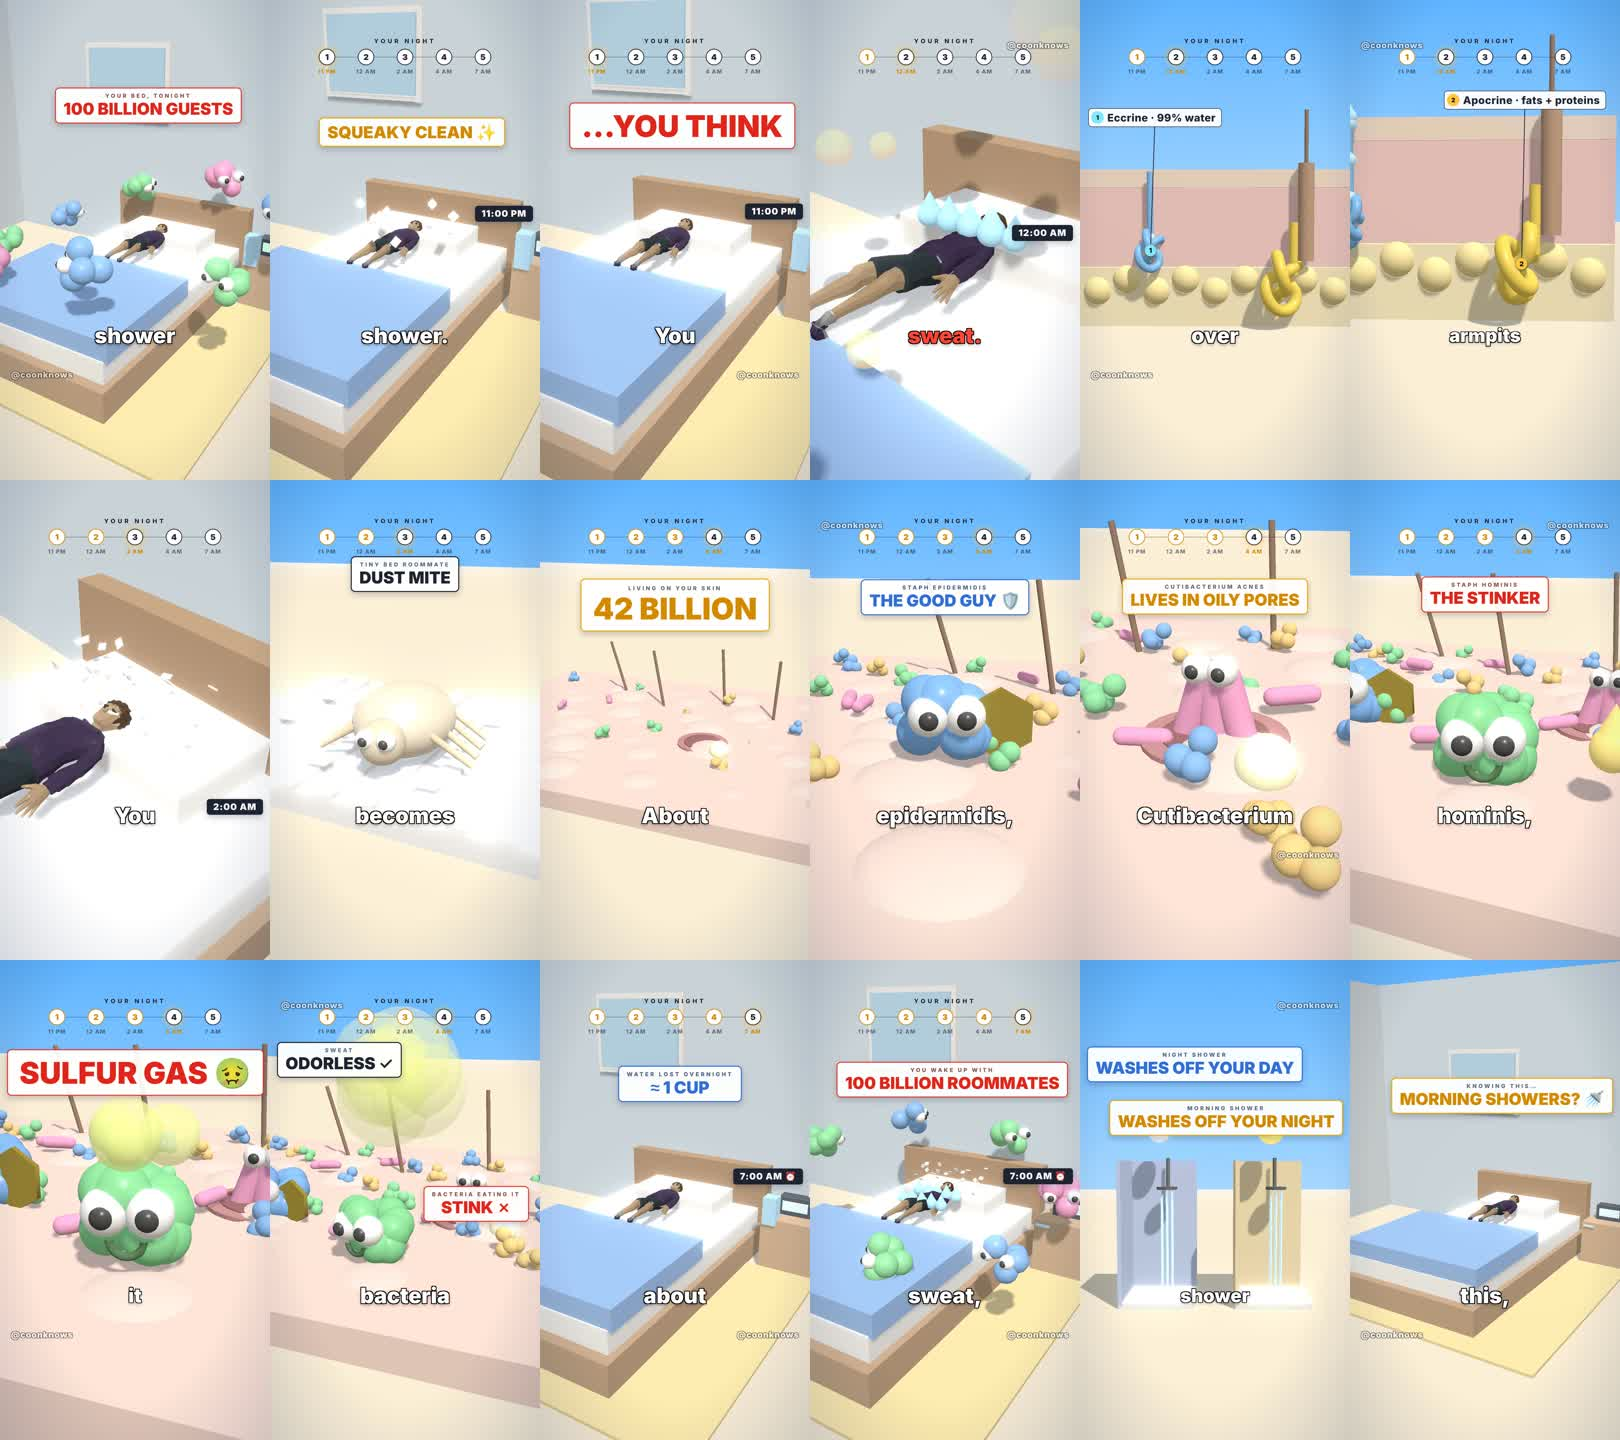
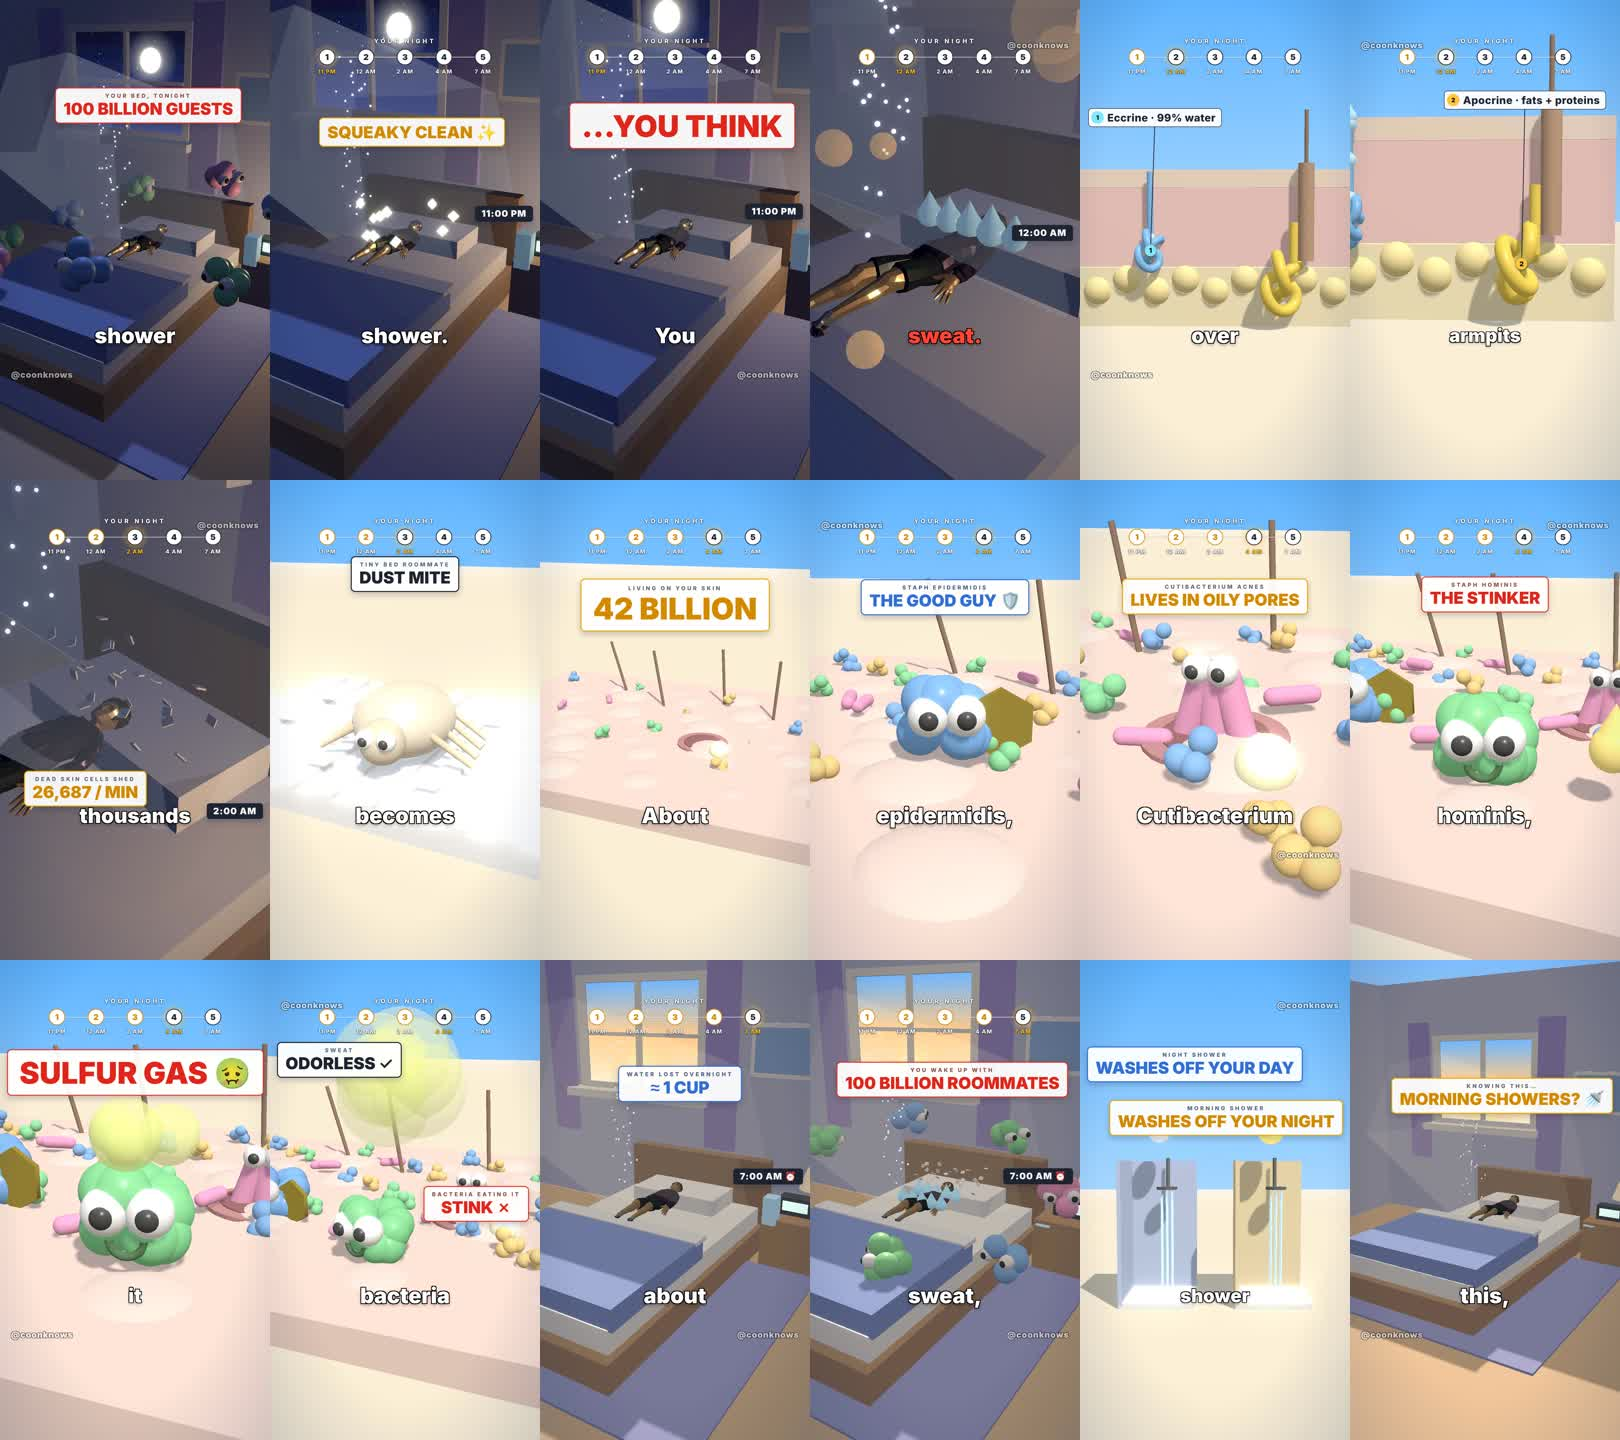
why-shower-morning: moonlit night bedroom, sunrise at 7 AM; engine: time-of-day lights/sky; readable step tracker in bright look
Claude-Session: https://claude.ai/code/session_01HD3jrHsVm5oZSrqgcbQvcg

diff --git a/videos/why-shower-morning/scene.js b/videos/why-shower-morning/scene.js
@@ -13,21 +13,46 @@ window.SCENE = {
     const eyes = (p, r, y, z, dx = r * .55) => { for (const sx of [-1, 1]) { SP(r * .32, sx * dx, y, z, 0xffffff, p, { rough: .3 }); SP(r * .16, sx * dx, y, z + r * .22, 0x111111, p, { rough: .3 }); } };
     S.eyes = eyes;
 
-    // ---------- A: bedroom ----------
-    B(12, 6, .3, 0, 3, -3.0, 0xbfdcf5);                     // back wall
-    B(.3, 6, 9, -5.0, 3, 1.4, 0xd6e8f8);                    // side wall
-    B(2.0, 1.5, .1, -1.6, 3.6, -2.82, 0xffffff); B(1.8, 1.3, .06, -1.6, 3.6, -2.76, 0x8fd0ff);   // window
-    B(5.2, .05, 4.2, 0, .02, .6, 0xf6c86a, undefined, { rough: .95 });                          // rug
-    B(2.8, .45, 4.6, 0, .25, 0, 0x9a6b45);                                                      // bed frame
-    B(2.8, 1.5, .25, 0, .75, -2.35, 0x8a5d3a);                                                  // headboard
-    B(2.6, .35, 4.3, 0, .62, 0, 0xffffff, undefined, { rough: .9 });                             // mattress
-    S.pillow = B(1.6, .28, .8, 0, .93, -1.75, 0xffffff, undefined, { rough: .95 });
-    S.blanket = B(2.7, .3, 2.1, 0, .92, 1.08, 0x5b8fe8, undefined, { rough: .9 });
-    B(.9, .9, .8, 2.05, .45, -1.9, 0xc08a5c);                                                    // nightstand
-    S.clock = B(.55, .3, .25, 2.05, 1.05, -1.95, 0x222831, undefined, { rough: .4 });
-    B(.42, .16, .02, 2.05, 1.06, -1.82, 0x7dff9a, undefined, { glow: .9 });
+    // ---------- A: bedroom (night → sunrise) ----------
+    B(12, .06, 9, 0, .01, .4, 0xb4845a, undefined, { rough: .8 });                           // wooden floor
+    B(12, 6, .3, 0, 3, -3.0, 0x9aa6d8);                                                      // back wall
+    B(.3, 6, 9, -5.0, 3, 1.4, 0xa9b3e0);                                                     // side wall
+    // window with the sky outside (night: moon + stars, morning: sunrise)
+    const skyCanvas = (night) => { const cv = document.createElement('canvas'); cv.width = 512; cv.height = 384; const c = cv.getContext('2d');
+      const g = c.createLinearGradient(0, 0, 0, 384); (night ? ['#070b26', '#18225a', '#2f3a7a'] : ['#6fb6ff', '#ffc98a', '#ffe9c9']).forEach((col, i) => g.addColorStop(i / 2, col));
+      c.fillStyle = g; c.fillRect(0, 0, 512, 384);
+      if (night) { let r = 7; for (let i = 0; i < 90; i++) { r = (r * 9301 + 49297) % 233280; const x = r / 233280 * 512; r = (r * 9301 + 49297) % 233280; const y = r / 233280 * 300;
+          c.fillStyle = 'rgba(255,255,255,' + (.4 + (i % 5) * .12) + ')'; c.beginPath(); c.arc(x, y, (i % 7 === 0) ? 2.2 : 1.1, 0, 7); c.fill(); }
+        const mg = c.createRadialGradient(360, 110, 10, 360, 110, 120); mg.addColorStop(0, 'rgba(255,250,220,.55)'); mg.addColorStop(1, 'rgba(255,250,220,0)'); c.fillStyle = mg; c.fillRect(200, 0, 312, 260);
+        c.fillStyle = '#fff6d8'; c.beginPath(); c.arc(360, 110, 46, 0, 7); c.fill(); c.fillStyle = '#e9dfbf'; [[345, 98, 9], [378, 125, 7], [355, 132, 5]].forEach(([x, y, rr]) => { c.beginPath(); c.arc(x, y, rr, 0, 7); c.fill(); });
+      } else { const sg = c.createRadialGradient(256, 330, 10, 256, 330, 160); sg.addColorStop(0, 'rgba(255,240,180,1)'); sg.addColorStop(1, 'rgba(255,200,120,0)'); c.fillStyle = sg; c.fillRect(0, 150, 512, 234); }
+      const tx = new THREE.CanvasTexture(cv); tx.encoding = THREE.sRGBEncoding; return tx; };
+    S.skyNight = skyCanvas(true); S.skyMorning = skyCanvas(false);
+    S.windowSky = new THREE.Mesh(new THREE.PlaneGeometry(2.6, 1.95), new THREE.MeshBasicMaterial({ map: S.skyNight, fog: false })); S.windowSky.position.set(-1.6, 3.6, -2.84); K.scene.add(S.windowSky);
+    for (const [w, h, x, y] of [[2.9, .14, -1.6, 4.62], [2.9, .14, -1.6, 2.58], [.14, 2.1, -3.0, 3.6], [.14, 2.1, -.2, 3.6], [.08, 1.95, -1.6, 3.6], [2.6, .07, -1.6, 3.6]]) B(w, h, .14, x, y, -2.8, 0xf4f1ea);
+    B(3.2, .16, .5, -1.6, 2.45, -2.65, 0xf4f1ea);                                            // sill
+    for (const sx of [-3.45, .25]) for (let k = 0; k < 3; k++) B(.22, 3.4, .14, sx + (k - 1) * .2, 3.3, -2.7 + k * .03, 0x6f5fc9, undefined, { rough: .95 });   // curtains
+    B(1.3, .9, .06, 1.4, 3.4, -2.83, 0xf4f1ea); B(1.15, .75, .03, 1.4, 3.4, -2.8, 0x5b8fe8);                                // little framed picture
+    // moonbeam through the window + floating dust motes
+    const beam = new THREE.Mesh(new THREE.CylinderGeometry(1.1, 2.2, 4.4, 4, 1, true), new THREE.MeshBasicMaterial({ color: 0xaecbff, transparent: true, opacity: .1, blending: THREE.AdditiveBlending, depthWrite: false, side: THREE.DoubleSide }));
+    beam.position.set(-.9, 2.3, -1.4); beam.rotation.set(.75, .78, .35); K.scene.add(beam); S.beam = beam;
+    S.motes = []; for (let i = 0; i < 40; i++) { const m = new THREE.Mesh(new THREE.SphereGeometry(.018, 6, 4), new THREE.MeshBasicMaterial({ color: 0xdbe8ff, transparent: true, opacity: .8 })); K.scene.add(m); S.motes.push(m); }
+    B(5.2, .05, 4.2, 0, .05, .6, 0x5a63b8, undefined, { rough: .95 });                       // rug
+    B(2.8, .45, 4.6, 0, .25, 0, 0x7a5236);                                                   // bed frame
+    B(2.8, 1.6, .25, 0, .8, -2.35, 0x6b4630);                                                // headboard
+    B(2.6, .35, 4.3, 0, .62, 0, 0xffffff, undefined, { rough: .9 });                          // mattress
+    S.pillow = B(1.6, .28, .8, 0, .93, -1.75, 0xf7f7ff, undefined, { rough: .95 });
+    S.blanket = B(2.7, .3, 2.1, 0, .92, 1.08, 0x4762c9, undefined, { rough: .9 });
+    B(2.72, .06, .3, 0, 1.06, .1, 0xe9ecff, undefined, { rough: .9 });                        // folded sheet edge
+    B(.9, .9, .8, 2.05, .45, -1.9, 0x8a5a3a);                                                 // nightstand
+    S.clock = B(.55, .3, .25, 2.05, 1.05, -1.95, 0x1a1e26, undefined, { rough: .4 });
+    B(.42, .16, .02, 2.05, 1.06, -1.82, 0x7dff9a, undefined, { glow: 1.2 });
     S.glass = B(.22, 1, .22, 1.75, .9, -1.55, 0x7ec8ff, undefined, { rough: .1, glow: .15 });
-    CY(.12, .7, 2.3, 1.25, -2.1, 0xfff1c0, undefined, { glow: .5 });                            // lamp
+    // bedside lamp: base + glowing shade + warm light
+    CY(.1, .45, 2.3, 1.12, -2.15, 0xd9c7a0); S.shade = M(new THREE.CylinderGeometry(.18, .3, .34, 24, 1, true), 0xffd59a, undefined, { glow: .9 });
+    S.shade.position.set(2.3, 1.5, -2.15); S.shade.children[0].material.side = THREE.DoubleSide;
+    S.lampLight = new THREE.PointLight(0xffb066, 1.3, 7, 2); S.lampLight.position.set(2.3, 1.45, -2.0); K.scene.add(S.lampLight);
+    S.daySky = K.scene.background; S.nightSky = K.skyTexture([0x070b26, 0x141c48, 0x232a5a]); S.sunriseSky = K.skyTexture([0x7cbcff, 0xffc98a, 0xffe2b8]);
     // sleeper: lying on his back, head on the pillow
     S.sleepRig = K.group(0, 1.0, .1);
     S.guy = K.model('guy', { height: 1.75, parent: S.sleepRig }); S.guy.rotation.x = -Math.PI / 2;
@@ -169,6 +194,22 @@ window.SCENE = {
 
   update(t, K) {
     const { at, T, ease, easeOut, clamp01, prog, pop } = K, S = this.s;
+    // ---- time of day: night in the bedroom, sunrise at 7 AM, plain daylight inside the micro-world sets ----
+    const inRoom = K.camera.position.x < 12, morning = ease(prog(t, 't7', 1.6)), night = inRoom ? 1 - morning : 0;
+    const L = K.lights; if (L.hemi) {
+      const mix = (a, b, k) => a + (b - a) * k, day = !inRoom;
+      L.key.intensity = day ? .78 : mix(.3, .95, morning); L.key.color.setHex(day ? 0xfff1dc : morning > .5 ? 0xffd2a0 : 0x6f8cff);
+      K.keyOffset.set(day ? 6 : -5, day ? 14 : 9, day ? 9 : -8);
+      L.hemi.intensity = day ? .42 : mix(.16, .45, morning); L.hemi.color.setHex(day ? 0xdcecff : morning > .5 ? 0xffe6c8 : 0x3a4aa8);
+      L.hemi.groundColor.setHex(day ? 0x8a7458 : 0x120e26); L.amb.intensity = day ? .08 : mix(0, .08, morning);
+      K.scene.background = day ? S.daySky : (morning > .5 ? S.sunriseSky : S.nightSky);
+      K.scene.fog.color.setHex(day ? 0xfff3df : morning > .5 ? 0xffe2b8 : 0x0b1030);
+      K.bloom.threshold = day ? .95 : mix(.72, .92, morning); K.bloom.strength = day ? .25 : mix(.6, .3, morning);
+    }
+    S.lampLight.intensity = inRoom ? 1.0 * (1 - morning) : 0; S.shade.children[0].material.emissiveIntensity = .2 + .6 * (1 - morning);
+    S.windowSky.material.map = morning > .5 ? S.skyMorning : S.skyNight;
+    S.beam.material.opacity = .045 * (1 - morning) + .03 * morning; S.beam.material.color.setHex(morning > .5 ? 0xffd9a0 : 0xaecbff);
+    S.motes.forEach((m, i) => { const u = (t * .05 + i * .137) % 1; m.position.set(-1.9 + 1.6 * u + .2 * Math.sin(i), 1.2 + ((i * .61) % 1) * 2.4 + .1 * Math.sin(t + i), -2.4 + 1.8 * u); m.visible = inRoom; });
     // sleeper: breathing idle, tosses at midnight and 2 AM, sits up at 7 AM
     K.anim(S.guy, 'Idle_Neutral', t);
     const toss = .18 * Math.sin(clamp01((t - at('sweat')) / 1.6) * Math.PI) - .15 * Math.sin(clamp01((t - at('t2')) / 1.4) * Math.PI);

diff --git a/engine/kit.js b/engine/kit.js
@@ -69,6 +69,11 @@
   const camera = K.camera = new THREE.PerspectiveCamera(50, W / H, .1, 400);
   const amb = new THREE.AmbientLight(0xffffff, .35); scene.add(amb);
   const key = new THREE.DirectionalLight(0xffffff, .9); key.position.set(5, 10, 8); scene.add(key);
+  // lights + sky are exposed so a scene can change time of day (night room, sunrise…) inside update(t)
+  K.lights = { amb, key }; K.keyOffset = new THREE.Vector3(6, 14, 9);
+  K.skyTexture = function (cols) { const cv = document.createElement('canvas'); cv.width = 4; cv.height = 512; const cx = cv.getContext('2d'), gr = cx.createLinearGradient(0, 0, 0, 512);
+    cols.forEach((c, i) => gr.addColorStop(i / (cols.length - 1), '#' + c.toString(16).padStart(6, '0'))); cx.fillStyle = gr; cx.fillRect(0, 0, 4, 512);
+    const tx = new THREE.CanvasTexture(cv); tx.encoding = THREE.sRGBEncoding; return tx; };
   const composer = new THREE.EffectComposer(renderer);
   composer.addPass(new THREE.RenderPass(scene, camera));
   const bloomPass = K.bloom = new THREE.UnrealBloomPass(new THREE.Vector2(W / 2, H / 2), ...ST.bloom); composer.addPass(bloomPass);
@@ -152,7 +157,7 @@
   let solidLit = false;
   function solidLights() { if (solidLit) return; solidLit = true;
     if (ST.rig === 'bright') { // sunny studio: sky fill + warm sun with soft shadows that follow the camera
-      scene.add(new THREE.HemisphereLight(0xdcecff, 0x8a7458, .42)); amb.intensity = .08; key.intensity = .78; key.color.set(0xfff1dc);
+      const hemiB = new THREE.HemisphereLight(0xdcecff, 0x8a7458, .42); scene.add(hemiB); K.lights.hemi = hemiB; amb.intensity = .08; key.intensity = .78; key.color.set(0xfff1dc);
       key.castShadow = true; key.shadow.mapSize.set(2048, 2048); const sc = key.shadow.camera; sc.left = sc.bottom = -14; sc.right = sc.top = 14; sc.near = 1; sc.far = 60;
       key.shadow.bias = -.0006; key.shadow.normalBias = .02; scene.add(key.target);
       bloomPass.threshold = .95; bloomPass.strength = .25; return; }
@@ -277,7 +282,7 @@
     const sh = shakeAmp(t);
     camera.position.copy(camPos).add(new THREE.Vector3(Math.sin(t * 61) * sh, Math.cos(t * 47) * sh, 0));
     camera.lookAt(camTgt); camera.updateMatrixWorld();
-    if (ST.shadows) { key.position.copy(camTgt).add(new THREE.Vector3(6, 14, 9)); key.target.position.copy(camTgt); key.target.updateMatrixWorld(); }
+    if (ST.shadows) { key.position.copy(camTgt).add(K.keyOffset); key.target.position.copy(camTgt); key.target.updateMatrixWorld(); }
     updateCards(t); updateCallouts(t);
     // captions: one word/token at a time
     let c = null; for (const x of CAPS) { if (x.t <= t) c = x; else break; }

diff --git a/engine/styles/bright.js b/engine/styles/bright.js
@@ -20,9 +20,9 @@ body.look-bright, html{background:#a9d8ff}
 .look-bright .card.blue{border-color:#2f6fd6} .look-bright .card.blue .l{color:#4a5f86} .look-bright .card.blue .v{color:#2f6fd6;text-shadow:none}
 .look-bright .card.cyan{border-color:#0ea5c6} .look-bright .card.cyan .v{color:#0b8fb0;text-shadow:none}
 .look-bright .card.tag{background:#1d2330;border-color:#1d2330} .look-bright .card.tag .v{color:#fff}
-.look-bright #steps .t{color:#1d2330;text-shadow:0 1px 0 rgba(255,255,255,.7)}
+.look-bright #steps .t{color:#fff;text-shadow:0 0 3px #000,0 2px 6px rgba(0,0,0,.6)}
 .look-bright .sc{background:#fff;border-color:#1d2330;color:#1d2330} .look-bright .sc.done{border-color:#d48a00;color:#d48a00}
-.look-bright .sl{background:rgba(29,35,48,.35)} .look-bright #steps .labs span{color:rgba(29,35,48,.6)} .look-bright #steps .labs span.on{color:#d48a00}
+.look-bright .sl{background:rgba(255,255,255,.7);box-shadow:0 0 3px rgba(0,0,0,.5)} .look-bright #steps .labs span{color:#fff;text-shadow:0 0 3px #000,0 2px 5px rgba(0,0,0,.7)} .look-bright #steps .labs span.on{color:#ffc21a}
 .look-bright #ftitle{color:#1d2330}
 .look-bright #follow{background:#fff;color:#e0261b;border-color:#e0261b;box-shadow:0 10px 26px rgba(20,30,60,.25)} .look-bright #follow.on{background:#e0261b;color:#fff}
 .look-bright #fhandle{color:#fff;text-shadow:3px 3px 0 #000,-3px 3px 0 #000,3px -3px 0 #000,-3px -3px 0 #000}
